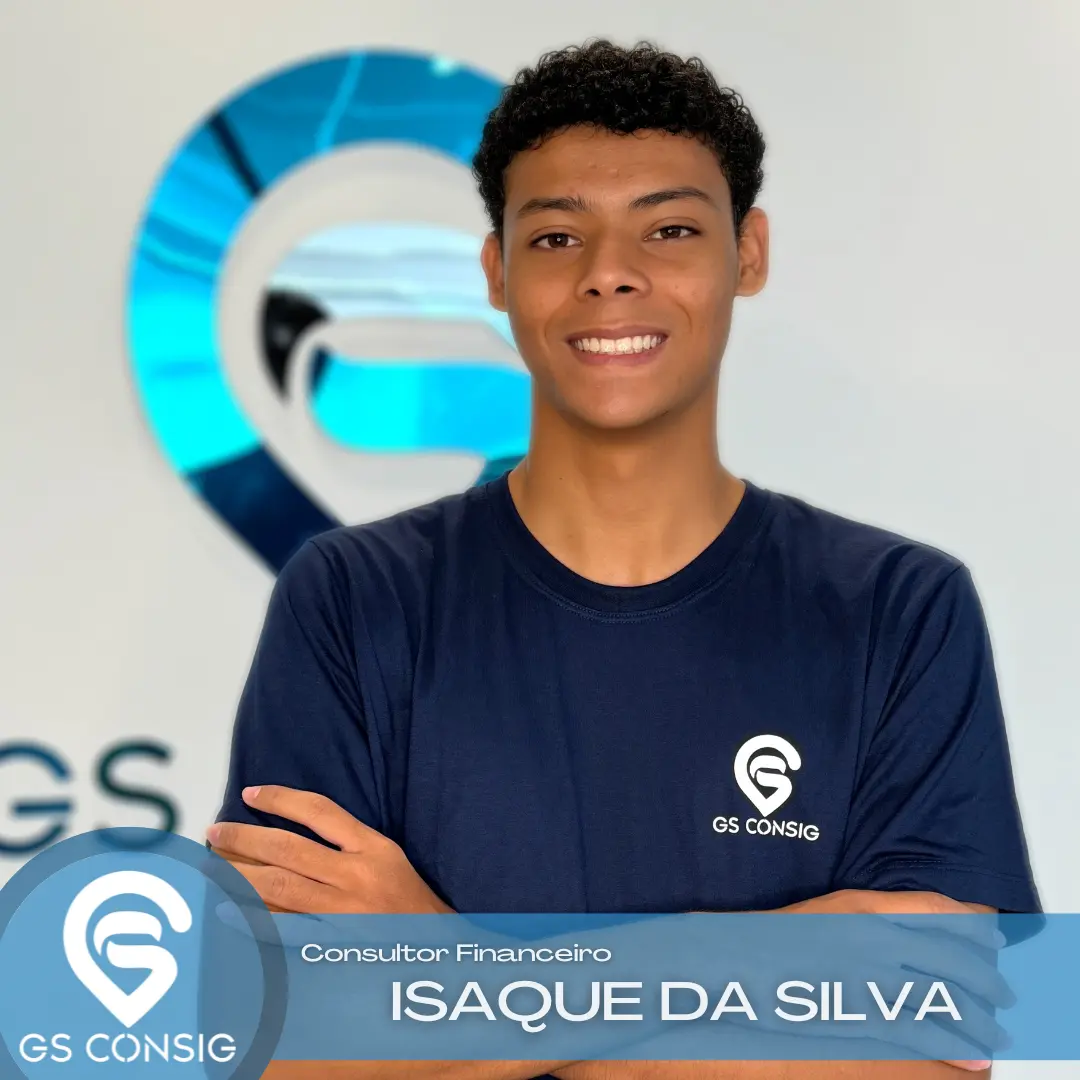
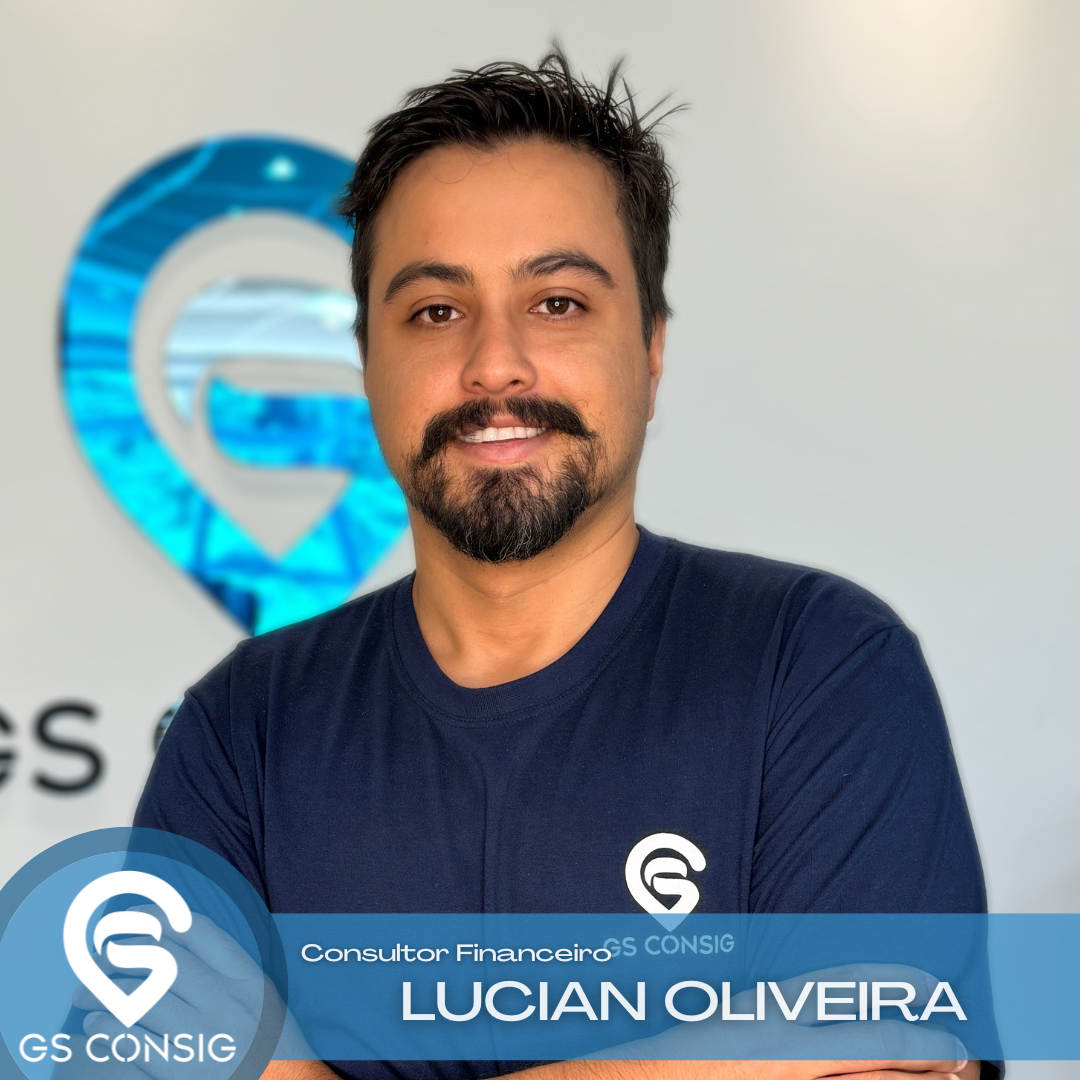
Troca de foto AT14
Isaque (Saiu da GS) pela Lucian (Novo consultor)

diff --git a/src/types/employees.ts b/src/types/employees.ts
@@ -88,9 +88,9 @@ export const employees: IEmployee[] = [
   },
   {
     avatar: `${avatarBasePath}/AT14.webp`,
-    name: "Consultor Isaque da Silva",
+    name: "Consultor Lucian Oliveira",
     products: ["CARTÃO CONSIGNADO", "CARTÃO BENEFICIO", "CREDITO NOVO"],
-    whatsapp: "11938043490",
+    whatsapp: "47992503966",
   },
   {
     avatar: `${avatarBasePath}/AT15.webp`,
@@ -99,16 +99,40 @@ export const employees: IEmployee[] = [
     whatsapp: "11938043472",
   },
   {
+    avatar: `${avatarBasePath}/AT16.webp`,
+    name: "Consultora Paulo Galvão",
+    products: ["CARTÃO CONSIGNADO", "CARTÃO BENEFICIO", "CREDITO NOVO"],
+    whatsapp: "11938041995",
+  },
+  {
+    avatar: `${avatarBasePath}/AT18.webp`,
+    name: "Consultora Paolla Maivorme",
+    products: ["CARTÃO CONSIGNADO", "CARTÃO BENEFICIO", "CREDITO NOVO"],
+    whatsapp: "47996520793",
+  },
+  {
+    avatar: `${avatarBasePath}/AT19.webp`,
+    name: "Consultora Maria Eduarda",
+    products: ["CARTÃO CONSIGNADO", "CARTÃO BENEFICIO", "CREDITO NOVO"],
+    whatsapp: "47984890666",
+  },
+  {
+    avatar: `${avatarBasePath}/AT20.webp`,
+    name: "Consultora Paulo Cavalcante",
+    products: ["CARTÃO CONSIGNADO", "CARTÃO BENEFICIO", "CREDITO NOVO"],
+    whatsapp: "11930040417",
+  },
+  {
+    avatar: `${avatarBasePath}/AT21.webp`,
+    name: "Consultora Naian de Oliveira",
+    products: ["CARTÃO CONSIGNADO", "CARTÃO BENEFICIO", "CREDITO NOVO"],
+    whatsapp: "11949165470",
+  },
+  {
     avatar: `${avatarBasePath}/AT22.webp`,
     name: "Consultor Luiz Ilmar",
     products: ["CARTÃO CONSIGNADO", "CARTÃO BENEFICIO", "CREDITO NOVO"],
     whatsapp: "11962251489",
-  },
-  {
-    avatar: `${avatarBasePath}/AT01.webp`,
-    name: "Consultora Paolla Maivorme",
-    products: ["CARTÃO CONSIGNADO", "CARTÃO BENEFICIO", "CREDITO NOVO"],
-    whatsapp: "9999999999",
   },
 ];
 
